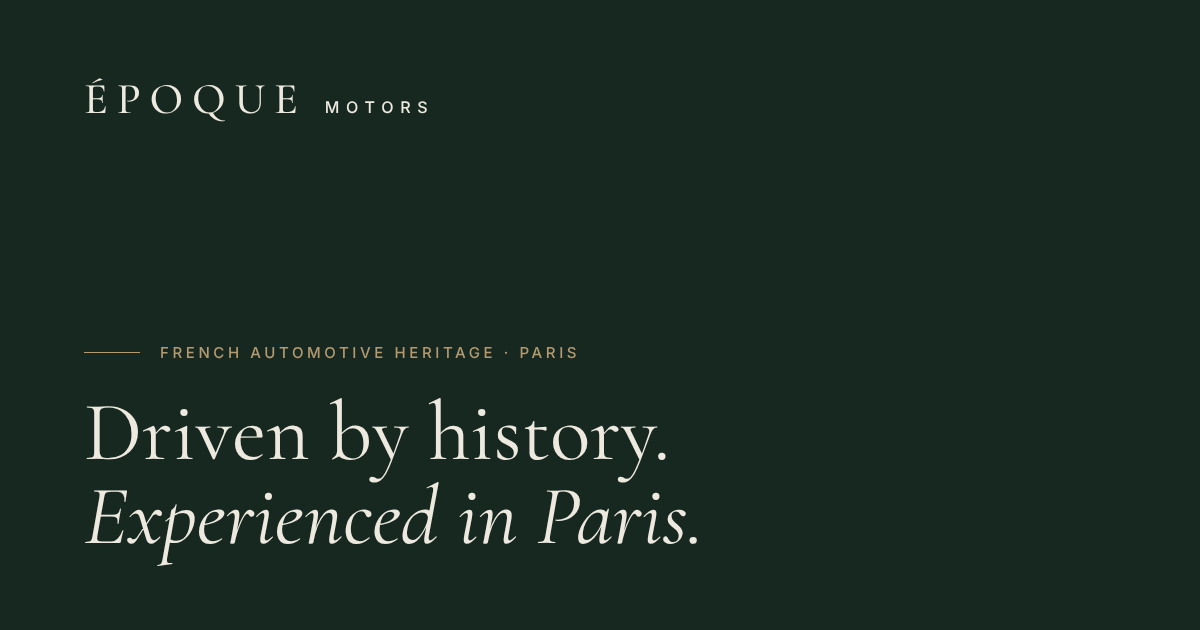
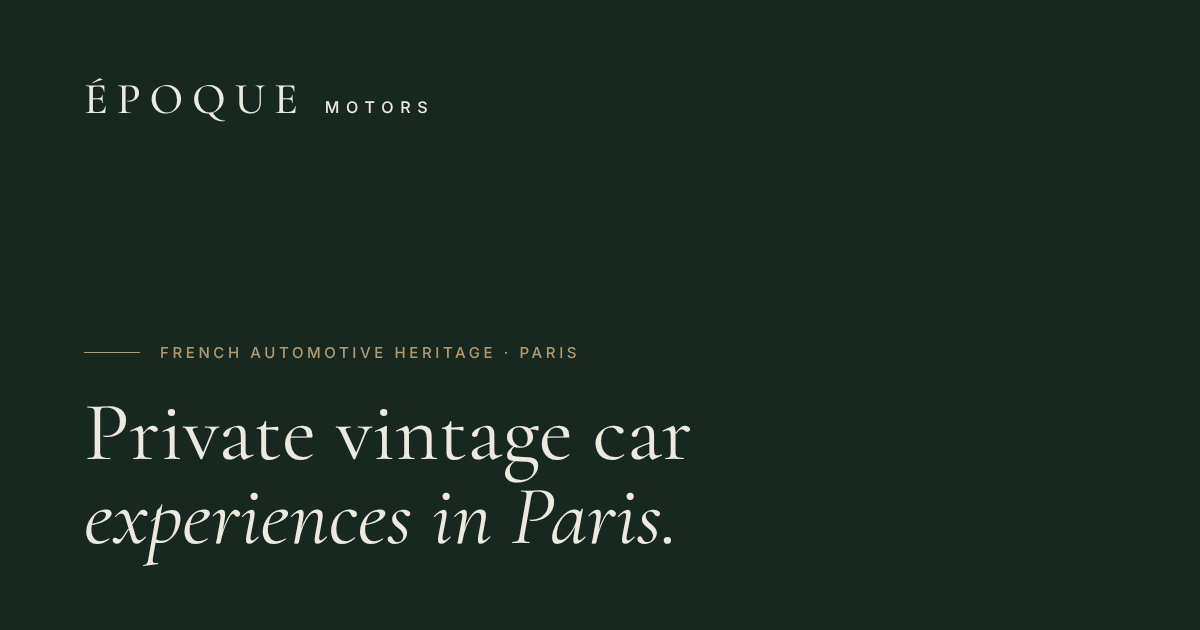
Remove the "Driven by history. Experienced in Paris." tagline
Removed from the hero strap, the brand story, the footer, the mobile
menu, the site data, the English meta description, index.html (meta
description, Open Graph and Twitter titles, image alt, JSON-LD slogan)
and the README. The Open Graph image is regenerated with "Private
vintage car experiences in Paris." instead.

Claude-Session: https://claude.ai/code/session_014T3PA8okpfMbkavgL7inno

Changed region(s): [[0.0617, 0.6333, 0.5858, 0.9048]]

diff --git a/index.html b/index.html
@@ -6,7 +6,7 @@
     <title>Époque Motors | Private Vintage Car Experiences in Paris</title>
     <meta
       name="description"
-      content="Driven by history. Experienced in Paris. Private tours, chauffeured journeys and special occasions in iconic vintage automobiles, by enquiry."
+      content="Private tours, chauffeured journeys and special occasions in iconic vintage automobiles, by enquiry."
     />
     <meta name="theme-color" content="#172820" />
     <!-- TODO: set the production domain -->
@@ -21,7 +21,7 @@
     <meta property="og:site_name" content="Époque Motors" />
     <meta property="og:locale" content="en_GB" />
     <meta property="og:locale:alternate" content="fr_FR" />
-    <meta property="og:title" content="Époque Motors | Driven by history. Experienced in Paris." />
+    <meta property="og:title" content="Époque Motors | Private Vintage Car Experiences in Paris" />
     <meta
       property="og:description"
       content="Discover Paris through the timeless elegance of iconic automobiles. Private vintage car experiences, by enquiry."
@@ -30,9 +30,9 @@
     <meta property="og:image" content="https://www.epoque-motors.example/og-image.png" />
     <meta property="og:image:width" content="1200" />
     <meta property="og:image:height" content="630" />
-    <meta property="og:image:alt" content="Époque Motors | Driven by history. Experienced in Paris." />
+    <meta property="og:image:alt" content="Époque Motors | Private Vintage Car Experiences in Paris" />
     <meta name="twitter:card" content="summary_large_image" />
-    <meta name="twitter:title" content="Époque Motors | Driven by history. Experienced in Paris." />
+    <meta name="twitter:title" content="Époque Motors | Private Vintage Car Experiences in Paris" />
     <meta name="twitter:description" content="Private vintage car experiences in Paris, by enquiry." />
     <meta name="twitter:image" content="https://www.epoque-motors.example/og-image.png" />
 
@@ -41,7 +41,6 @@
         "@context": "https://schema.org",
         "@type": "TravelAgency",
         "name": "Époque Motors",
-        "slogan": "Driven by history. Experienced in Paris.",
         "description": "Private vintage car experiences in Paris for international visitors, by enquiry.",
         "areaServed": "Paris, France",
         "url": "https://www.epoque-motors.example/"

diff --git a/src/components/Hero.tsx b/src/components/Hero.tsx
@@ -1,5 +1,5 @@
 import type { CSSProperties } from 'react';
-import { heroImage, site } from '../data/site';
+import { heroImage } from '../data/site';
 import { useI18n } from '../i18n/I18nContext';
 import { Media } from './ui/Media';
 import { ButtonLink } from './ui/Button';
@@ -7,7 +7,7 @@ import { ButtonLink } from './ui/Button';
 const delay = (ms: number) => ({ '--hero-delay': `${ms}ms` }) as CSSProperties;
 
 export function Hero() {
-  const { t, l } = useI18n();
+  const { t } = useI18n();
   return (
     <section
       id="top"
@@ -66,8 +66,7 @@ export function Hero() {
           </ButtonLink>
         </div>
 
-        <div className="mt-12 hidden items-center justify-between border-t border-line-light pt-5 text-ivory/70 md:flex">
-          <p className="font-display text-lg italic">{l(site.tagline)}</p>
+        <div className="mt-12 hidden items-center border-t border-line-light pt-5 text-ivory/70 md:flex">
           <p className="eyebrow">{t.hero.strap}</p>
         </div>
       </div>

diff --git a/src/components/BrandStory.tsx b/src/components/BrandStory.tsx
@@ -1,10 +1,10 @@
-import { storyImages, site } from '../data/site';
+import { storyImages } from '../data/site';
 import { Media } from './ui/Media';
 import { Reveal } from './ui/Reveal';
 import { useI18n } from '../i18n/I18nContext';
 
 export function BrandStory() {
-  const { t, l } = useI18n();
+  const { t } = useI18n();
   return (
     <section id="story" aria-labelledby="story-title" className="overflow-hidden bg-offwhite py-24 sm:py-32 lg:py-44">
       <div className="page-gutter mx-auto grid max-w-[var(--container-page)] gap-16 lg:grid-cols-12 lg:gap-12">
@@ -43,9 +43,6 @@ export function BrandStory() {
             </p>
             <p>{t.story.p2}</p>
             <p>{t.story.p3}</p>
-          </Reveal>
-          <Reveal delay={200} className="mt-12 border-t border-line pt-6">
-            <p className="font-display text-xl text-forest italic">{l(site.tagline)}</p>
           </Reveal>
         </div>
       </div>

diff --git a/src/components/Header.tsx b/src/components/Header.tsx
@@ -6,7 +6,7 @@ import { Wordmark } from './ui/Wordmark';
 import { ButtonLink } from './ui/Button';
 
 export function Header() {
-  const { t, l } = useI18n();
+  const { t } = useI18n();
   const [scrolled, setScrolled] = useState(false);
   const [open, setOpen] = useState(false);
   const toggleRef = useRef<HTMLButtonElement>(null);
@@ -143,7 +143,6 @@ export function Header() {
             <ButtonLink href="#contact" onClick={() => setOpen(false)} arrow className="w-full justify-between">
               {t.header.enquire}
             </ButtonLink>
-            <p className="font-display text-xl text-forest/80 italic">{l(site.tagline)}</p>
           </div>
         </nav>
       </div>

diff --git a/src/i18n/en.ts b/src/i18n/en.ts
@@ -7,7 +7,7 @@ export const en = {
   meta: {
     title: 'Époque Motors | Private Vintage Car Experiences in Paris',
     description:
-      'Driven by history. Experienced in Paris. Private tours, chauffeured journeys and special occasions in classic automobiles, by enquiry.',
+      'Private tours, chauffeured journeys and special occasions in classic automobiles, by enquiry.',
   },
   common: {
     skipToContent: 'Skip to content',

diff --git a/src/data/site.ts b/src/data/site.ts
@@ -8,11 +8,6 @@ import type { MediaAsset } from './types';
  */
 export const site = {
   name: 'Époque Motors',
-  tagline: {
-    en: 'Driven by history. Experienced in Paris.',
-    // Brand signature, kept in English in both languages.
-    fr: 'Driven by history. Experienced in Paris.',
-  } satisfies Localized,
   contact: {
     // TODO: replace with confirmed contact details
     email: 'hello@epoque-motors.example',

diff --git a/src/components/Footer.tsx b/src/components/Footer.tsx
@@ -17,7 +17,6 @@ export function Footer() {
               <Wordmark size="lg" />
             </a>
             <p className="mt-6 max-w-sm text-[0.975rem] leading-relaxed text-ivory/65">{t.footer.description}</p>
-            <p className="mt-8 font-display text-xl text-champagne italic">{l(site.tagline)}</p>
           </div>
 
           <nav aria-label={t.footer.footerNav} className="md:col-span-3 md:col-start-7">

diff --git a/README.md b/README.md
@@ -1,7 +1,7 @@
 # Époque Motors | Website
 
 Landing page for **ÉPOQUE MOTORS**, private vintage car experiences in Paris.
-*Driven by history. Experienced in Paris.*
+*Private vintage car experiences in Paris, by enquiry.*
 
 ## Stack
 
